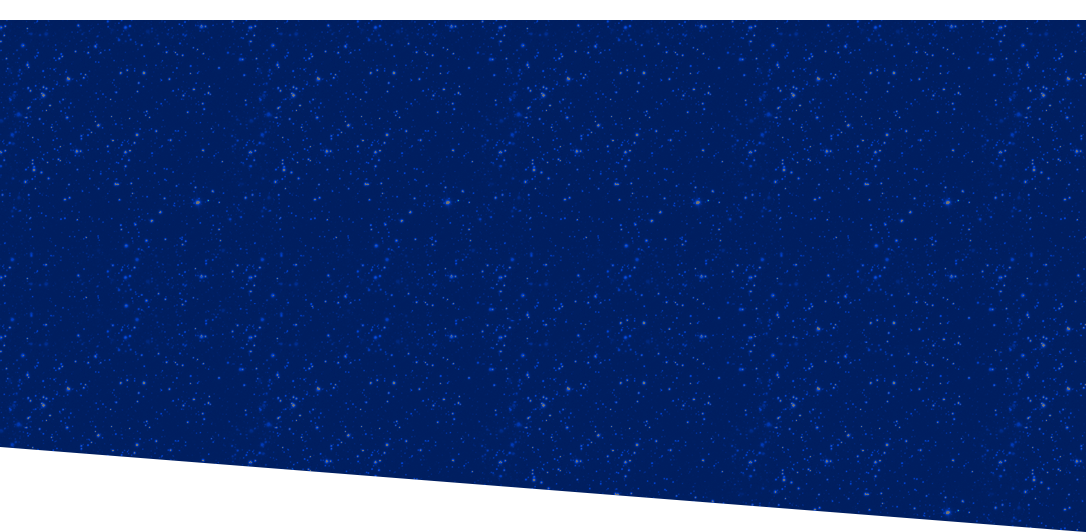
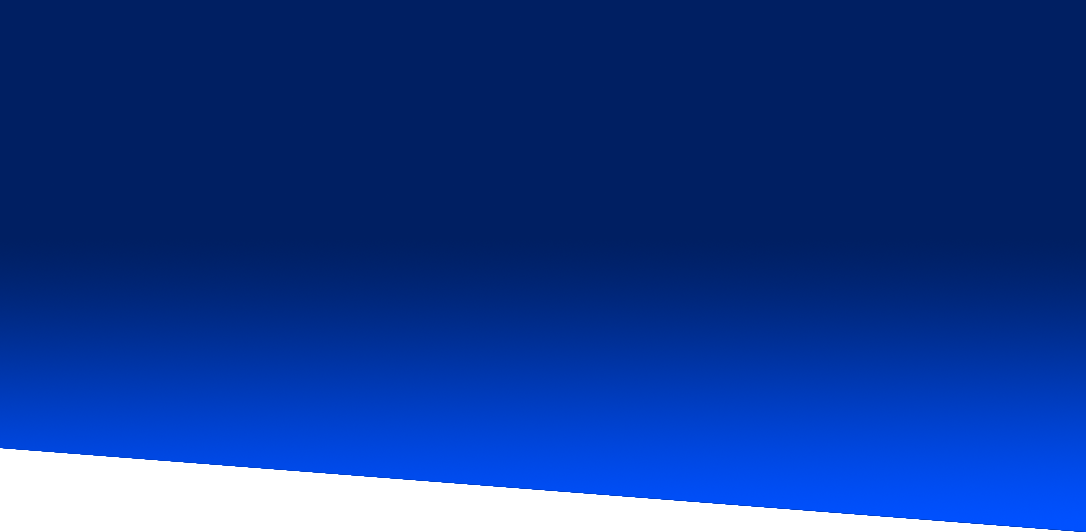
add twinkle effect to bg

diff --git a/src/App.vue b/src/App.vue
@@ -27,6 +27,10 @@
         </nav>
         <section id="banner" class="full">
         </section>
+        <div id="stars">
+            <div class="twinkle">
+            </div>
+        </div>
         <img id="moon" src="src/assets/moon.png">
         <section id="hero" class="full">
             <div class="fi">
@@ -157,7 +161,19 @@
 </script>
 
 <style lang="scss">
+    /* ----- defs */
     
+    @keyframes twinkle{
+        0%{
+            background: 100% 0% url(assets/twinkling.png);
+        }
+        50%{
+            background: 50% 0% url(assets/twinkling.png);
+        }
+        100%{
+            background: 0% 0% url(assets/twinkling.png);
+        }
+    }
 
     /* ----- resets */
 
@@ -225,8 +241,7 @@
         font-family: "Comfortaa";
         position: relative;
         color: #d3d1cd;
-        background: url(assets/stars.jpg);
-        background-size: 25%;
+        background: #001f62;
     }
 
     a{
@@ -329,9 +344,30 @@
     /* hero */
     #banner{
         position: absolute;
-        background: no-repeat bottom/100% url(assets/bannerbase.png);
+        background: no-repeat top/100% 20vh url(assets/gradient.png), no-repeat bottom/100% url(assets/bannerbase.png);
         bottom:0;
         z-index: 50;
+    }
+    
+    #stars{
+        width: 150%;
+        height: 100%;
+        z-index: 60;
+        background: 0% 0% / 10% url(assets/stars.png);
+        mix-blend-mode: screen;
+        position: absolute;
+        right:0;
+        bottom: 0;
+        transform: rotate(4.5deg);
+        transform-origin: 100% 100%;
+    }
+    
+    .twinkle{
+        width: 100%;
+        height: 100%;
+        z-index: 60;
+        position: absolute;
+        animation: twinkle 240s infinite linear;
     }
     
     #moon{
@@ -339,7 +375,7 @@
         width: 40rem;
         right: 3rem;
         top: 25%;
-        z-index: 50;
+        z-index: 75;
     }
     
     #hero{
